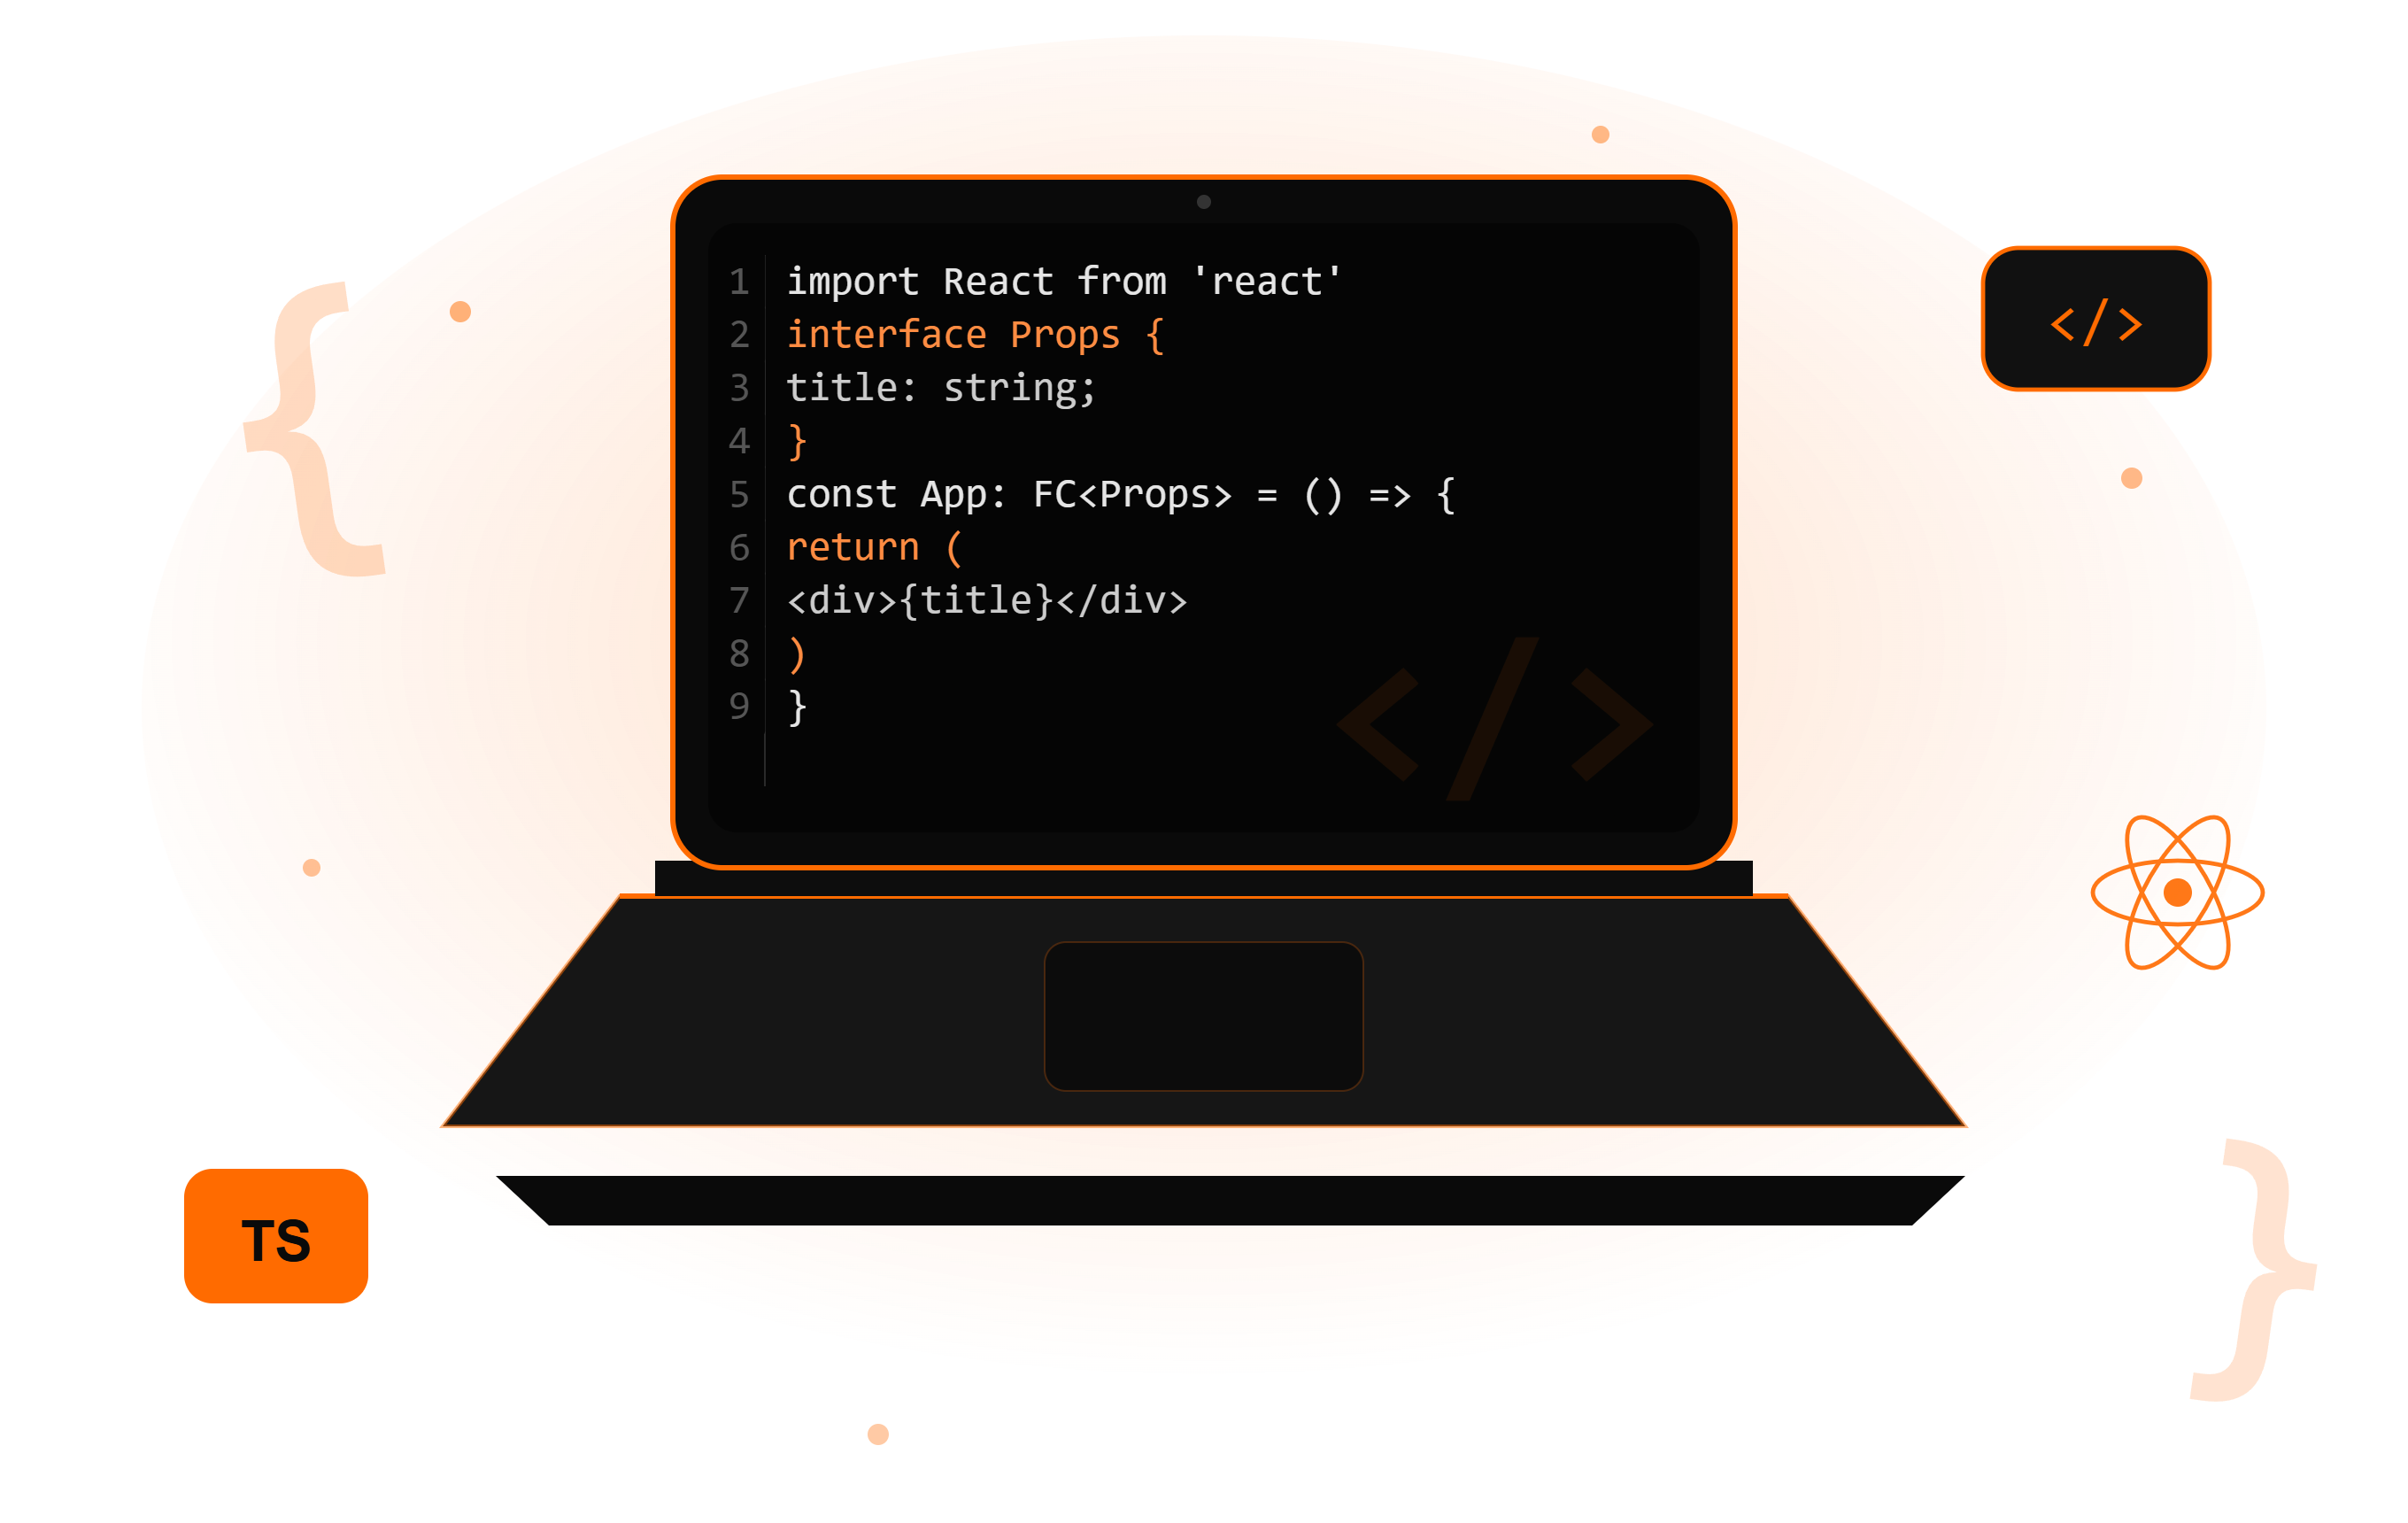
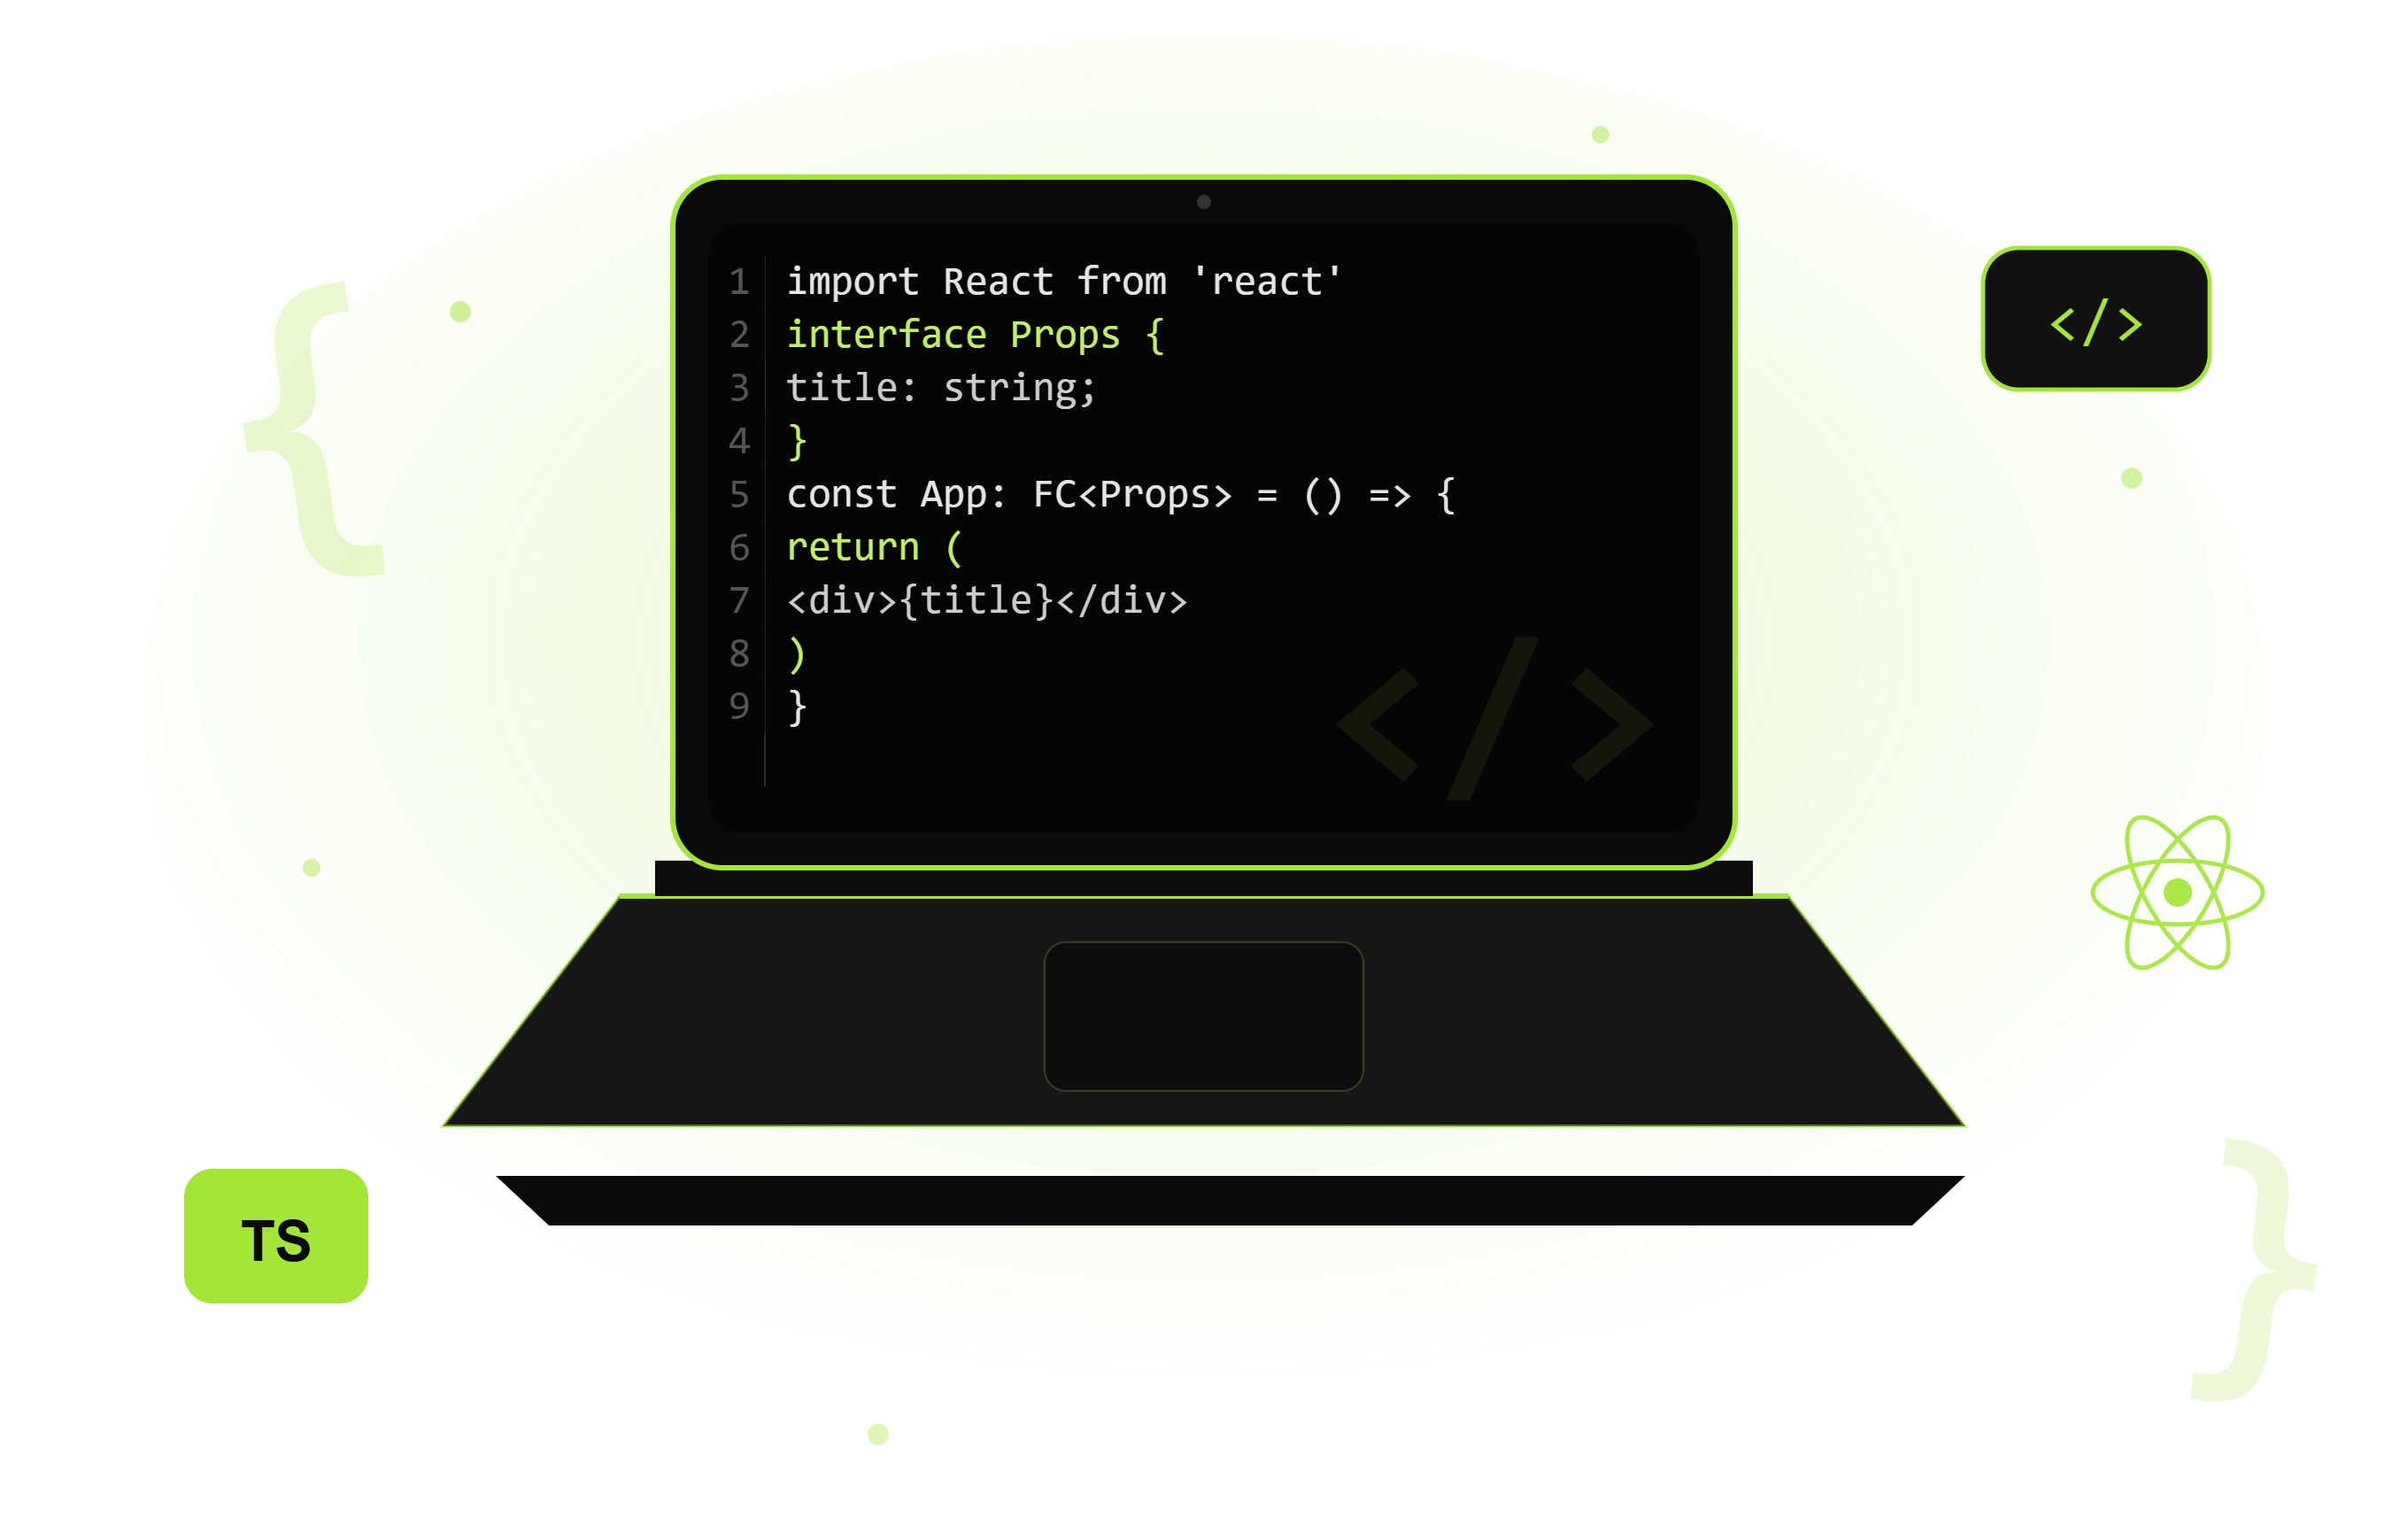
Color verde lima

diff --git a/src/components/Contact/Contact.tsx b/src/components/Contact/Contact.tsx
@@ -15,7 +15,7 @@ const Contact = () => {
   return (
     <section id="contacto" className="py-24 px-6 md:px-12 bg-zinc-900/40">
       <div className="max-w-2xl mx-auto text-center mb-12">
-        <span className="text-orange-500 text-sm font-medium tracking-wide uppercase">
+        <span className="text-lime-500 text-sm font-medium tracking-wide uppercase">
           Hablemos
         </span>
         <h2 className="text-3xl md:text-4xl font-bold text-white mt-2">
@@ -35,7 +35,7 @@ const Contact = () => {
           <input
             type="text"
             required
-            className="w-full bg-zinc-950/70 border border-zinc-800 rounded-lg px-4 py-2.5 text-white placeholder:text-zinc-600 focus:outline-none focus:border-orange-500 transition-colors"
+            className="w-full bg-zinc-950/70 border border-zinc-800 rounded-lg px-4 py-2.5 text-white placeholder:text-zinc-600 focus:outline-none focus:border-lime-500 transition-colors"
             placeholder="Tu nombre"
           />
         </div>
@@ -45,7 +45,7 @@ const Contact = () => {
           <input
             type="email"
             required
-            className="w-full bg-zinc-950/70 border border-zinc-800 rounded-lg px-4 py-2.5 text-white placeholder:text-zinc-600 focus:outline-none focus:border-orange-500 transition-colors"
+            className="w-full bg-zinc-950/70 border border-zinc-800 rounded-lg px-4 py-2.5 text-white placeholder:text-zinc-600 focus:outline-none focus:border-lime-500 transition-colors"
             placeholder="[email redacted]"
           />
         </div>
@@ -55,7 +55,7 @@ const Contact = () => {
           <textarea
             required
             rows={4}
-            className="w-full bg-zinc-950/70 border border-zinc-800 rounded-lg px-4 py-2.5 text-white placeholder:text-zinc-600 focus:outline-none focus:border-orange-500 transition-colors resize-none"
+            className="w-full bg-zinc-950/70 border border-zinc-800 rounded-lg px-4 py-2.5 text-white placeholder:text-zinc-600 focus:outline-none focus:border-lime-500 transition-colors resize-none"
             placeholder="Contanos sobre tu proyecto..."
           />
         </div>
@@ -63,7 +63,7 @@ const Contact = () => {
         <button
           type="submit"
           disabled={status !== "idle"}
-          className="w-full flex items-center justify-center gap-2 bg-orange-500 hover:bg-orange-600 disabled:opacity-60 text-white font-medium py-3 rounded-lg transition-colors"
+          className="w-full flex items-center justify-center gap-2 bg-lime-500 hover:bg-lime-600 disabled:opacity-60 text-white font-medium py-3 rounded-lg transition-colors"
         >
           {status === "idle" && (
             <>

diff --git a/src/components/Hero/Hero.tsx b/src/components/Hero/Hero.tsx
@@ -9,14 +9,14 @@ const Hero = () => {
       <div className="max-w-6xl mx-auto grid md:grid-cols-[45%_55%] gap-12 items-center w-full">
         <div>
           <div className="inline-flex items-center gap-2 border border-zinc-800 bg-zinc-900/60 rounded-full px-4 py-1.5 mb-6">
-            <span className="w-1.5 h-1.5 rounded-full bg-orange-500" />
-            <span className="text-orange-500 text-sm font-medium">
+            <span className="w-1.5 h-1.5 rounded-full bg-lime-500" />
+            <span className="text-lime-500 text-sm font-medium">
               Disponibles para nuevos proyectos
             </span>
           </div>
 
           <h1 className="text-4xl md:text-6xl font-extrabold text-white leading-tight">
-            Desarrollo de <span className="text-orange-500">Software</span>{" "}
+            Desarrollo de <span className="text-lime-500">Software</span>{" "}
             para empresas.
           </h1>
 
@@ -29,13 +29,13 @@ const Hero = () => {
           <div className="flex flex-wrap gap-4 mt-8">
             <a
               href="#proyectos"
-              className="bg-orange-500 hover:bg-orange-600 text-white font-semibold px-6 py-3 rounded-lg transition-colors"
+              className="bg-lime-500 hover:bg-lime-600 text-white font-semibold px-6 py-3 rounded-lg transition-colors"
             >
               Ver proyectos
             </a>
             <a
               href="#contacto"
-              className="border border-zinc-700 hover:border-orange-500 text-white font-semibold px-6 py-3 rounded-lg transition-colors"
+              className="border border-zinc-700 hover:border-lime-500 text-white font-semibold px-6 py-3 rounded-lg transition-colors"
             >
               Contáctanos
             </a>

diff --git a/src/components/Projects/Projects.tsx b/src/components/Projects/Projects.tsx
@@ -6,7 +6,7 @@ const Projects = () => {
     <section id="proyectos" className="py-20 px-6 md:px-12 bg-zinc-950">
       <div className="max-w-6xl mx-auto">
         <div className="mb-12 text-center">
-          <span className="text-orange-500 text-sm font-medium tracking-wide uppercase">
+          <span className="text-lime-500 text-sm font-medium tracking-wide uppercase">
             Nuestro trabajo
           </span>
           <h2 className="text-3xl md:text-4xl font-bold text-white mt-2">
@@ -20,7 +20,7 @@ const Projects = () => {
 
         {projects.length === 0 ? (
           <div className="flex flex-col items-center justify-center border border-zinc-800 rounded-2xl py-16 px-6 bg-zinc-900/40 backdrop-blur-sm text-center">
-            <LuFolderGit2 className="w-10 h-10 text-orange-500 mb-4" />
+            <LuFolderGit2 className="w-10 h-10 text-lime-500 mb-4" />
             <h3 className="text-white text-lg font-semibold">Próximamente</h3>
             <p className="text-zinc-400 mt-2 max-w-md">
               Estamos preparando nuestros primeros proyectos publicados.
@@ -32,7 +32,7 @@ const Projects = () => {
             {projects.map((project) => (
               <article
                 key={project.id}
-                className="group bg-zinc-900 border border-zinc-800 rounded-2xl overflow-hidden hover:border-orange-500/50 transition-colors duration-300"
+                className="group bg-zinc-900 border border-zinc-800 rounded-2xl overflow-hidden hover:border-lime-500/50 transition-colors duration-300"
               >
                 {project.image && (
                   <div className="h-44 overflow-hidden">
@@ -69,7 +69,7 @@ const Projects = () => {
                         href={project.github}
                         target="_blank"
                         rel="noreferrer"
-                        className="flex items-center gap-1.5 text-sm text-zinc-300 hover:text-orange-500 transition-colors"
+                        className="flex items-center gap-1.5 text-sm text-zinc-300 hover:text-lime-500 transition-colors"
                       >
                         <LuGithub className="w-4 h-4" /> Código
                       </a>
@@ -79,7 +79,7 @@ const Projects = () => {
                         href={project.demo}
                         target="_blank"
                         rel="noreferrer"
-                        className="flex items-center gap-1.5 text-sm text-zinc-300 hover:text-orange-500 transition-colors"
+                        className="flex items-center gap-1.5 text-sm text-zinc-300 hover:text-lime-500 transition-colors"
                       >
                         <LuExternalLink className="w-4 h-4" /> Demo
                       </a>

diff --git a/src/components/Footer/Footer.tsx b/src/components/Footer/Footer.tsx
@@ -7,7 +7,7 @@ const Footer = () => {
     <footer className="border-t border-zinc-800 bg-zinc-950 px-6 md:px-12 py-10">
       <div className="max-w-6xl mx-auto flex flex-col sm:flex-row items-center justify-between gap-6">
         <div className="flex items-center gap-2">
-          <div className="w-8 h-8 rounded-lg bg-orange-500 flex items-center justify-center text-black font-bold text-sm">
+          <div className="w-8 h-8 rounded-lg bg-lime-500 flex items-center justify-center text-black font-bold text-sm">
             {"</>"}
           </div>
           <span className="text-white font-semibold">
@@ -16,13 +16,13 @@ const Footer = () => {
         </div>
 
         <div className="flex items-center gap-5">
-          <a href="https://github.com/tu-usuario" target="_blank" rel="noreferrer" className="text-zinc-400 hover:text-orange-500 transition-colors">
+          <a href="https://github.com/tu-usuario" target="_blank" rel="noreferrer" className="text-zinc-400 hover:text-lime-500 transition-colors">
             <Github className="w-5 h-5" />
           </a>
-          <a href="https://linkedin.com/in/tu-usuario" target="_blank" rel="noreferrer" className="text-zinc-400 hover:text-orange-500 transition-colors">
+          <a href="https://linkedin.com/in/tu-usuario" target="_blank" rel="noreferrer" className="text-zinc-400 hover:text-lime-500 transition-colors">
             <Linkedin className="w-5 h-5" />
           </a>
-          <a href="mailto:[email redacted]" className="text-zinc-400 hover:text-orange-500 transition-colors">
+          <a href="mailto:[email redacted]" className="text-zinc-400 hover:text-lime-500 transition-colors">
             <Mail className="w-5 h-5" />
           </a>
         </div>

diff --git a/src/components/Navbar/Navbar.tsx b/src/components/Navbar/Navbar.tsx
@@ -18,12 +18,12 @@ const Navbar = () => {
     <header className="fixed top-0 left-0 w-full z-50 border-b border-zinc-800 bg-zinc-950/80 backdrop-blur-md">
       <nav className="max-w-6xl mx-auto flex items-center justify-between px-6 md:px-12 py-4">
         <a href="#inicio" className="flex items-center gap-2">
-          <div className="w-9 h-9 rounded-lg bg-orange-500 flex items-center justify-center text-black">
+          <div className="w-9 h-9 rounded-lg bg-lime-500 flex items-center justify-center text-black">
             <LuCode className="w-5 h-5" />
           </div>
           <div className="leading-tight">
             <span className="text-white font-bold block">
-              NorthCode <span className="text-orange-500">Studio</span>
+              NorthCode <span className="text-lime-500">Studio</span>
             </span>
           </div>
         </a>
@@ -33,7 +33,7 @@ const Navbar = () => {
             <li key={link.href}>
               <a
                 href={link.href}
-                className="text-zinc-300 hover:text-orange-500 transition-colors text-sm font-medium"
+                className="text-zinc-300 hover:text-lime-500 transition-colors text-sm font-medium"
               >
                 {link.label}
               </a>
@@ -57,7 +57,7 @@ const Navbar = () => {
               <a
                 href={link.href}
                 onClick={handleLinkClick}
-                className="block py-3 text-zinc-300 hover:text-orange-500 transition-colors text-sm font-medium"
+                className="block py-3 text-zinc-300 hover:text-lime-500 transition-colors text-sm font-medium"
               >
                 {link.label}
               </a>

diff --git a/src/components/About/About.tsx b/src/components/About/About.tsx
@@ -29,7 +29,7 @@ const About = () => {
       <div className="max-w-6xl mx-auto">
         <div className="grid md:grid-cols-2 gap-12 items-center mb-14">
           <div>
-            <span className="text-orange-500 text-sm font-medium tracking-wide uppercase">
+            <span className="text-lime-500 text-sm font-medium tracking-wide uppercase">
               Sobre nosotros
             </span>
             <h2 className="text-3xl md:text-4xl font-bold text-white mt-2 leading-tight">
@@ -49,9 +49,9 @@ const About = () => {
           {services.map(({ icon: Icon, title, description }) => (
             <div
               key={title}
-              className="p-6 rounded-2xl bg-zinc-900 border border-zinc-800 hover:border-orange-500/50 transition-colors duration-300"
+              className="p-6 rounded-2xl bg-zinc-900 border border-zinc-800 hover:border-lime-500/50 transition-colors duration-300"
             >
-              <Icon className="w-6 h-6 text-orange-500 mb-4" />
+              <Icon className="w-6 h-6 text-lime-500 mb-4" />
               <h3 className="text-white font-semibold">{title}</h3>
               <p className="text-zinc-400 text-sm mt-2 leading-relaxed">
                 {description}

diff --git a/src/components/Technologies/Technologies.tsx b/src/components/Technologies/Technologies.tsx
@@ -24,7 +24,7 @@ const Technologies = () => {
   return (
     <section id="tecnologias" className="py-20 px-6 md:px-12 bg-zinc-950">
       <div className="max-w-6xl mx-auto text-center">
-        <span className="text-orange-500 text-sm font-medium tracking-wide uppercase">
+        <span className="text-lime-500 text-sm font-medium tracking-wide uppercase">
           Stack tecnológico
         </span>
         <h2 className="text-3xl md:text-4xl font-bold text-white mt-2 mb-12">
@@ -36,7 +36,7 @@ const Technologies = () => {
             <div
               key={name}
               style={{ ["--tech-color" as string]: color }}
-              className="group flex flex-col items-center justify-center gap-3 p-6 rounded-2xl bg-zinc-900 border border-zinc-800 hover:border-orange-500/50 hover:-translate-y-1 transition-all duration-300"
+              className="group flex flex-col items-center justify-center gap-3 p-6 rounded-2xl bg-zinc-900 border border-zinc-800 hover:border-lime-500/50 hover:-translate-y-1 transition-all duration-300"
             >
               <Icon className="w-9 h-9 text-zinc-400 group-hover:[color:var(--tech-color)] transition-colors duration-300" />
               <span className="text-zinc-300 text-sm">{name}</span>